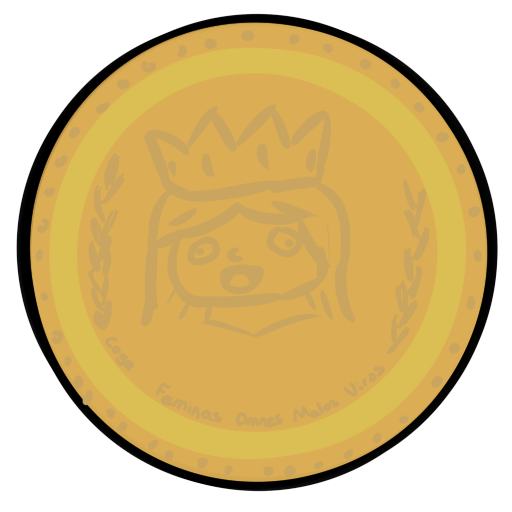
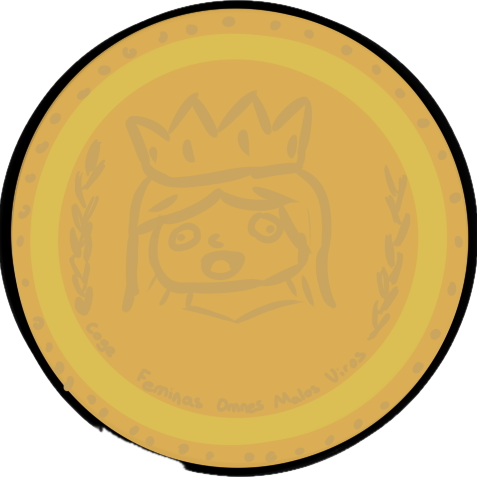
a couple shop ui changes

diff --git a/src/shopScreen.py b/src/shopScreen.py
@@ -111,7 +111,7 @@ class shopScreen(Screen):
         self.reroll_button = Button(
             label="Re-Roll 1G",
             pos=(self.width * 0.4, self.height * 0.8),
-            size=(self.width * 0.2, self.height * 0.15),
+            size=(self.width * 0.225, self.height * 0.15),
             sprite=self.sprites['button_toShop'],
             kind='reroll',
             scaleText=False,
@@ -159,6 +159,9 @@ class shopScreen(Screen):
 
         # gold
         self.sprites['gold'].draw(self.screen,(width * .15, height * .8),size=(150, 150))
+
+        # shop sign
+        self.sprites['shop_sign'].draw(self.screen, (0, 0), (width * .25, width * .25))
 
         # leave button
         self.leave_button.draw(self.screen)

diff --git a/src/sprites.py b/src/sprites.py
@@ -200,8 +200,14 @@ def load_sprites():
     )
 
     sprites['gold'] = Sprite(
-        SpriteSheet('assets/ui/Coin.png'),
+        SpriteSheet('assets/ui/coin.png'),
         (0, 0), (550, 550), textOffset=(5, 15),
         fontSize=20
+    )
+
+    sprites['shop_sign'] = Sprite(
+        SpriteSheet('assets/ui/shop_sign.png'),
+        (0, 0),
+        (486, 486),
     )
     return sprites
